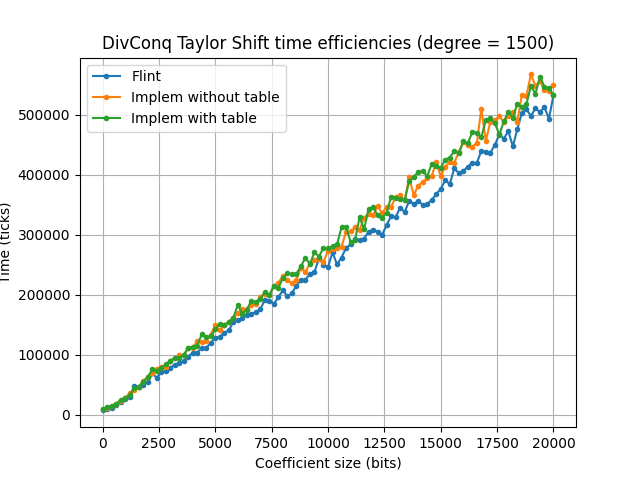
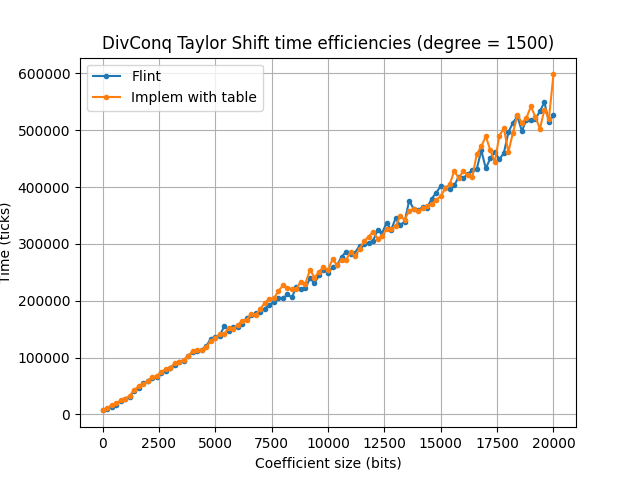
div conq len/2

diff --git a/src/Implementations/taylorShiftImplem.c b/src/Implementations/taylorShiftImplem.c
@@ -29,25 +29,34 @@ void load_precomputed_polynomials(slong max_m) {
     global_precomputed_len = flint_malloc(max_m * sizeof(slong));
     
     for (slong i = 0; i < max_m; i++) {
-        fmpz_poly_t tmp;
-        fmpz_poly_init(tmp);
+        fmpz *tmp = _fmpz_vec_init(i + 1);
         
-        char pathFile[80];
-        sprintf(pathFile, "DATA/Precomputation_DivConq/precomputation%d.txt", (int)i);
-        FILE *file = fopen(pathFile, "r");
-        if (!file || !fmpz_poly_fread(file, tmp)) {
-            printf("Failed to load precomputation%d.txt\n", (int)i);
-            exit(EXIT_FAILURE);
+        /* Now we generate (x+c)^len1 using binomial expansion. It's redundant
+        to do this in all branches of the tree, but since it's just O(d),
+        it's going to be cheap compared to the actual multiplications
+        anyway. */
+        fmpz_one(tmp);
+        for (slong k = 1; k <= i; k++)
+        {
+            if (k > i - k)
+            {
+                fmpz_set(tmp + k, tmp + i - k);
+            }
+            else
+            {
+            fmpz_mul_ui(tmp + k, tmp + k - 1, i + 1 - k);
+            fmpz_divexact_ui(tmp + k, tmp + k, k);
+            }
         }
-        fclose(file);
         
         // Store coefficients as raw vector
-        global_precomputed_len[i] = tmp->length;
-        global_precomputed[i] = _fmpz_vec_init(tmp->length);
-        _fmpz_vec_set(global_precomputed[i], tmp->coeffs, tmp->length);
+        global_precomputed_len[i] = i+1;
+        global_precomputed[i] = _fmpz_vec_init(global_precomputed_len[i]);
+        _fmpz_vec_set(global_precomputed[i], tmp, global_precomputed_len[i]);
         
-        fmpz_poly_clear(tmp);
+        _fmpz_vec_clear(tmp, i + 1);
     }
+
 }
 
 void free_global_precomputed() {
@@ -91,19 +100,7 @@ void divide_conquer_recursive(fmpz * poly, slong len) {
         return;
     }
 
-    fmpz_t len_fmpz;
-    fmpz_init_set_si(len_fmpz,len);
-    slong m = fmpz_clog_ui(len_fmpz,2);
-    int precomp;
-    //pour éviter déséquilibre
-    if (1 << (m - 2) > (len - (1 << (m - 1)))) {
-        len1 = 1 << (m - 2);
-        precomp = 2;
-    }
-    else {
-        len1 = 1 << (m - 1);
-        precomp = 1;
-    }
+    len1 = len/2;
     len2 = len - len1;
 
     divide_conquer_recursive(poly, len1);
@@ -113,8 +110,7 @@ void divide_conquer_recursive(fmpz * poly, slong len) {
     tmp = _fmpz_vec_init(len1 + 1);
     tmp2 = _fmpz_vec_init(len);
 
-    slong idx = m - precomp;
-    _fmpz_vec_set(tmp, global_precomputed[idx], global_precomputed_len[idx]);
+    _fmpz_vec_set(tmp, global_precomputed[len1], global_precomputed_len[len1]);
 
 
     _fmpz_poly_mul(tmp2, tmp, len1 + 1, poly + len1, len2);
@@ -131,93 +127,6 @@ void poly_shift_plus_one_Precomputed(fmpz_poly_t result, const fmpz_poly_t poly)
         fmpz_poly_set(result, poly);
 
     divide_conquer_recursive(result->coeffs, result->length);
-}
-
-
-void divide_conquer_recursive2(fmpz * poly, slong len) {
-    fmpz *tmp, *tmp2;
-    slong len1, len2;
-    slong bits, cutoff;
-    fmpz_t shift;
-
-    if (len < 50) {
-        fmpz_init_set_si(shift, 1);
-        _fmpz_poly_taylor_shift_horner(poly, shift, len);
-        fmpz_clear(shift);
-        return;
-    }
-
-    bits = _fmpz_vec_max_bits(poly, len);
-    bits = FLINT_ABS(bits);
-    cutoff = 100 + 10 * n_sqrt(FLINT_MAX(bits - FLINT_BITS, 0));
-
-    cutoff = FLINT_MIN(cutoff, 1000);
-    if (len < cutoff) {
-        fmpz_init_set_si(shift, 1);
-        _fmpz_poly_taylor_shift_horner(poly, shift, len);
-        fmpz_clear(shift);
-        return;
-    }
-
-    fmpz_t len_fmpz;
-    fmpz_init_set_si(len_fmpz,len);
-    slong m = fmpz_clog_ui(len_fmpz,2);
-    //pour éviter déséquilibre
-    if (1 << (m - 2) > (len - (1 << (m - 1)))) {
-        len1 = 1 << (m - 2);
-    }
-    else {
-        len1 = 1 << (m - 1);
-    }
-    len2 = len - len1;
-
-    divide_conquer_recursive2(poly, len1);
-    divide_conquer_recursive2(poly + len1, len2);
-
-
-    tmp = _fmpz_vec_init(len1 + 1);
-    tmp2 = _fmpz_vec_init(len);
-
-    
-    /* Now we generate (x+c)^len1 using binomial expansion. It's redundant
-    to do this in all branches of the tree, but since it's just O(d),
-    it's going to be cheap compared to the actual multiplications
-    anyway. */
-    clock_t begin = clock();
-    fmpz_one(tmp);
-    for (slong k = 1; k <= len1; k++)
-    {
-        if (k > len1 - k)
-        {
-            fmpz_set(tmp + k, tmp + len1 - k);
-        }
-        else
-        {
-           fmpz_mul_ui(tmp + k, tmp + k - 1, len1 + 1 - k);
-           fmpz_divexact_ui(tmp + k, tmp + k, k);
-        }
-    }
-    clock_t end = clock();
-
-    printf("temps pris pour (x+c)^len1 = %lf\n",(double)(end - begin));
-
-
-    _fmpz_poly_mul(tmp2, tmp, len1 + 1, poly + len1, len2);
-
-    _fmpz_vec_add(poly, poly, tmp2, len1);
-    _fmpz_vec_set(poly + len1, tmp2 + len1, len2);
-
-    _fmpz_vec_clear(tmp, len1 + 1);
-    _fmpz_vec_clear(tmp2, len);
-}
-
-void poly_shift_plus_one_Non_Precomputed(fmpz_poly_t result, const fmpz_poly_t poly) {
-    if (poly != result)
-        fmpz_poly_set(result, poly);
-
-    printf("bonjoru");
-
-    divide_conquer_recursive2(result->coeffs, result->length);
 }
 
 

diff --git a/src/EfficiencyTests/TS_DivConq_Tests.c b/src/EfficiencyTests/TS_DivConq_Tests.c
@@ -66,7 +66,7 @@ void benchmark_DivConq_Flint(fmpz_t shift, slong maxLen, int fixedVariable, FILE
     free(tabTps);
 }
 
-void benchmark_DivConq_Implem(slong maxLen, int fixedVariable, FILE *fileResults)
+/*void benchmark_DivConq_Implem(slong maxLen, int fixedVariable, FILE *fileResults)
 {
     printf("no table//////////////\n");
     fmpz_poly_t poly, result;
@@ -91,7 +91,7 @@ void benchmark_DivConq_Implem(slong maxLen, int fixedVariable, FILE *fileResults
     fmpz_poly_clear(result);
     fmpz_poly_clear(poly);
     free(tabTps);
-}
+}*/
 
 void benchmark_DivConq_Implem_Table(slong maxLen, int fixedVariable, FILE *fileResults)
 {
@@ -118,13 +118,17 @@ void benchmark_DivConq_Implem_Table(slong maxLen, int fixedVariable, FILE *fileR
     free(tabTps);
 }
 
+
+
+
+
 int main(/*int argc, char *argv[]*/)
 {
     slong maxLen = 101;
     fmpz_t shift;
     fmpz_init_set_si(shift, 1);
 
-    load_precomputed_polynomials(15);
+    load_precomputed_polynomials(5001);
 
     mkdir("src/EfficiencyTests/Results/TS_DivConq", 0777);
 
@@ -133,7 +137,7 @@ int main(/*int argc, char *argv[]*/)
 
     // note : on effectue les tests qu'une fois par taille, on ne fait pas de moyenne sur plusieurs tests pour une même taille
     FILE *fileResults;
-    fileResults = fopen("src/EfficiencyTests/Results/TS_DivConq/TS_DivConq_ChangingDegree_Threading.txt", "w");
+    /*fileResults = fopen("src/EfficiencyTests/Results/TS_DivConq/TS_DivConq_ChangingDegree_Threading.txt", "w");
     if (fileResults == NULL)
     {
         printf("The file is not opened. The program will "
@@ -141,15 +145,15 @@ int main(/*int argc, char *argv[]*/)
         exit(0);
     }
 
-    /*fprintf(fileResults, "DivConq Taylor Shift time efficiencies (coeffSize = 1500)\n"); // Title of the plot
+    fprintf(fileResults, "DivConq Taylor Shift time efficiencies (coeffSize = 1500)\n"); // Title of the plot
     fprintf(fileResults, "Flint Single-Threaded\n");                                     // labels of the plot
     benchmark_taylor_shiftMultiThread(shift, maxLen, 0, fileResults, 1);                 // datas
     fprintf(fileResults, "Flint Multi-Threaded (6 threads)\n");
     benchmark_taylor_shiftMultiThread(shift, maxLen, 0, fileResults, 6);
     fclose(fileResults);
-    */
 
-   /*
+
+
     fileResults = fopen("src/EfficiencyTests/Results/TS_DivConq/TS_DivConq_ChangingCoeffSize_Threading.txt", "w");
     if (fileResults == NULL)
     {
@@ -174,14 +178,14 @@ int main(/*int argc, char *argv[]*/)
     }
     fprintf(fileResults, "DivConq Taylor Shift time efficiencies (coeffSize = 10000)\n"); // Title of the plot
     fprintf(fileResults, "Flint\n");
-    //benchmark_DivConq_Flint(shift, maxLen, 0, fileResults);
-    fprintf(fileResults, "Implem without table\n");
-    benchmark_DivConq_Implem(maxLen, 0, fileResults);
+    benchmark_DivConq_Flint(shift, maxLen, 0, fileResults);
+    //fprintf(fileResults, "Implem without table\n");
+    //benchmark_DivConq_Implem(maxLen, 0, fileResults);
     fprintf(fileResults, "Implem with table\n");
     benchmark_DivConq_Implem_Table(maxLen, 0, fileResults);
     fclose(fileResults);
 
-    /*
+    
     fileResults = fopen("src/EfficiencyTests/Results/TS_DivConq/TS_DivConq_ChangingCoeffSize.txt", "w");
     if (fileResults == NULL)
     {
@@ -192,15 +196,15 @@ int main(/*int argc, char *argv[]*/)
     fprintf(fileResults, "DivConq Taylor Shift time efficiencies (degree = 1500)\n"); // Title of the plot
     fprintf(fileResults, "Flint\n");
     benchmark_DivConq_Flint(shift, maxLen, 1, fileResults);
-    fprintf(fileResults, "Implem without table\n");
-    benchmark_DivConq_Implem(maxLen, 1, fileResults);
+    //fprintf(fileResults, "Implem without table\n");
+    //benchmark_DivConq_Implem(maxLen, 1, fileResults);
     fprintf(fileResults, "Implem with table\n");
     benchmark_DivConq_Implem_Table(maxLen, 1, fileResults);
     fclose(fileResults);
-    */
+    
 
-    system("python3 src/EfficiencyTests/plotGenerator.py src/EfficiencyTests/Results/TS_DivConq/TS_DivConq_ChangingDegree_Threading.txt 'time' 0");
-    system("python3 src/EfficiencyTests/plotGenerator.py src/EfficiencyTests/Results/TS_DivConq/TS_DivConq_ChangingCoeffSize_Threading.txt 'time' 1");
+    //system("python3 src/EfficiencyTests/plotGenerator.py src/EfficiencyTests/Results/TS_DivConq/TS_DivConq_ChangingDegree_Threading.txt 'time' 0");
+    //system("python3 src/EfficiencyTests/plotGenerator.py src/EfficiencyTests/Results/TS_DivConq/TS_DivConq_ChangingCoeffSize_Threading.txt 'time' 1");
     system("python3 src/EfficiencyTests/plotGenerator.py src/EfficiencyTests/Results/TS_DivConq/TS_DivConq_ChangingDegree.txt 'time' 0");
     system("python3 src/EfficiencyTests/plotGenerator.py src/EfficiencyTests/Results/TS_DivConq/TS_DivConq_ChangingCoeffSize.txt 'time' 1");
 

diff --git a/src/ValidityTests/trunc_tests.c b/src/ValidityTests/trunc_tests.c
@@ -30,7 +30,7 @@ int main()
     
     load_precomputed_polynomials(15);
 
-    for (int i =5; i<=100; i+=10) {
+    /*for (int i =5; i<=100; i+=10) {
         readPolyDATA(poly, 0, i);
 
         slong max_bit_before = fmpz_poly_max_bits(poly);
@@ -41,10 +41,15 @@ int main()
         slong bit_diff = labs(max_bit_after) - labs(max_bit_before);// labs => absolute value for long int
         printf("length (degree+1) = %ld\n", poly->length);
         printf("bit diff = %ld\n\n", bit_diff);
-    }
+    }*/
     
-    /*readPolyDATA(poly, 0, 100);
-    truncate_coefficients(trunc_poly, poly, poly->length);
+    readPolyDATA(poly, 0, 51);
+    printf("degree = %ld\n", poly->length -1);
+    fmpz_t max_bit;
+    fmpz_init(max_bit);
+    //fmpz_abs(max_bit, (fmpz_t)fmpz_poly_max_bits(poly));
+    
+    truncate_coefficients(trunc_poly, poly, (slong)max_bit - 1);
 
     clock_t begin = clock();
     fmpz_poly_taylor_shift_divconquer(TrueResult, poly, shift);
@@ -75,7 +80,7 @@ int main()
     if (same_signs(result, TrueResult))
         printf("yaayy, polys have same signs after taylor shift\n"); 
     else
-        printf("polys don't have same signs after taylor shift :(\n");*/
+        printf("polys don't have same signs after taylor shift :(\n");
 
 
     fmpz_poly_clear(TrueResult);
@@ -83,6 +88,7 @@ int main()
     fmpz_poly_clear(trunc_poly);
     fmpz_poly_clear(result);
     fmpz_clear(shift);
+    fmpz_clear(max_bit);
     free_global_precomputed();
     return 0;
 }

diff --git a/src/ValidityTests/taylorShiftValidity.c b/src/ValidityTests/taylorShiftValidity.c
@@ -24,19 +24,20 @@ int main()
     fmpz_poly_init(result);
 
     readPolyDATA(poly, 0, 80);
-    load_precomputed_polynomials(15);
+    load_precomputed_polynomials(5001);
+
 
 
     fmpz_poly_taylor_shift_divconquer(TrueResult, poly, shift);
 
     //poly_shift_plus_one(result, poly, shift);
-    if(fmpz_poly_equal(result, TrueResult))
+    /*if(fmpz_poly_equal(result, TrueResult))
         printf("Implem of divide and conquer is valid :)\n");
     else
-        printf("Implem of divide and conquer is incorrect :(\n");
+        printf("Implem of divide and conquer is incorrect :(\n");*/
 
     
-    //poly_shift_plus_one_Precomputed(result, poly);
+    poly_shift_plus_one_Precomputed(result, poly);
     if(fmpz_poly_equal(result, TrueResult))
         printf("Implem of DivConq with precomputation table is valid :)\n");
     else

diff --git a/src/Implementations/coeff_truncation.c b/src/Implementations/coeff_truncation.c
@@ -52,8 +52,8 @@ void fmpz_trunc(fmpz_t rop, const fmpz_t op, slong keep_bits)
     slong drop_bits = total_bits - keep_bits;
 
     // Effectuer une troncature en supprimant les bits de poids faible
-    fmpz_fdiv_q_2exp(rop, op, drop_bits);  // shift right
-    fmpz_mul_2exp(rop, rop, drop_bits);    // shift back left
+    //fmpz_fdiv_q_2exp(rop, op, drop_bits);  // shift right
+    fmpz_mul_2exp(rop, op, drop_bits);    // shift back left
 }
 
 void truncate_coefficients(fmpz_poly_t result, const fmpz_poly_t poly, slong precision_bits) {
